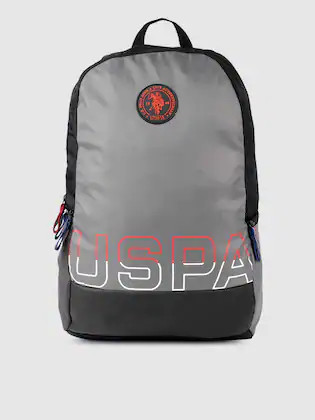
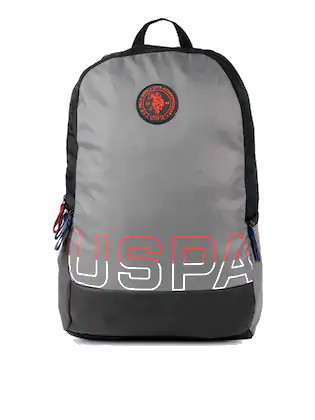
pagina producto-detalles.

diff --git a/product-details.html b/product-details.html
@@ -1,0 +1,211 @@
+<!DOCTYPE html>
+<html lang="en">
+
+<head>
+    <meta charset="UTF-8">
+    <meta name="viewport" content="width=device-width, initial-scale=1.0">
+    <link rel="stylesheet" href="css/normalize.css">
+    <link rel="stylesheet" href="css/styles.css">
+    <title>DiegoLongo | E-commerce Website</title>
+    <link href="https://fonts.googleapis.com/css2?family=Poppins:wght@300;400;500;600&display=swap" rel="stylesheet">
+    <link rel="stylesheet" href="https://use.fontawesome.com/releases/v5.14.0/css/all.css">
+</head>
+
+<body>
+
+    <div class="container">
+        <div class="navbar">
+            <div class="logo">
+                <img src="images/logo.png" alt="logo" width="125px">
+            </div>
+            <nav>
+                <ul id="MenuItems">
+                    <li><a href="">Inicio</a></li>
+                    <li><a href="products.html">Productos</a></li>
+                    <li><a href="">Nosotros</a></li>
+                    <li><a href="">Contacto</a></li>
+                    <li><a href="">Cuenta</a></li>
+                </ul>
+            </nav>
+            <img src="images/bolso.svg" alt="bolso" width="30px" height="30px">
+            <img src="images/menu.png" alt="barra" class="menu-icon" onclick="menutoggle()">
+        </div>
+    </div>
+
+    <div class="small-container single-product">
+        <div class="row">
+            <div class="col-2">
+                <img src="images/mochila.jpg" alt="" width="100%" id="ProductImg">
+                <div class="small-img-row">
+                    <div class="small-img-col">
+                        <img src="images/mochila.jpg" alt="" width="100%" class="small-img">
+                    </div>
+                    <div class="small-img-col">
+                        <img src="images/mochila2.jpg" alt="" width="100%" class="small-img">
+                    </div>
+                    <div class="small-img-col">
+                        <img src="images/mochila3.jpg" alt="" width="100%" class="small-img">
+                    </div>
+                    <div class="small-img-col">
+                        <img src="images/mochila4.jpg" alt="" width="100%" class="small-img">
+                    </div>
+                </div>
+            </div>
+            <div class="col-2">
+                <p>Inicio / Mochila</p>
+                <h1>Mochila USPA por Nike</h1>
+                <h4>Rs.1233</h4>
+                <select>
+                    <option selected disable>-- Seleccione una medida --</option>
+                    <option>XXL</option>
+                    <option>XL</option>
+                    <option>L</option>
+                    <option>M</option>
+                    <option>S</option>
+                </select>
+                <input type="number" min="0" value="1">
+                <a href="#" class="btn">Agregar al Carrito</a>
+                <h3>Detalles del producto <i class="fa fa-indent"></i></h3>
+                <br>
+                <p>Lorem ipsum dolor sit, amet consectetur adipisicing elit. Itaque, blanditiis distinctio tenetur
+                    corrupti inventore repellendus repellat commodi.</p>
+            </div>
+        </div>
+    </div>
+
+    <div class="small-container">
+        <div class="row row-2">
+            <h2>Productos Relacionados</h2>
+            <p>Mirar más</p>
+        </div>
+    </div>
+
+    <div class="small-container">
+        <div class="row">
+            <div class="col-4">
+                <img src="images/card1.jpg" alt=" Gorras">
+                <h4>Gorras Polo</h4>
+                <div class="rating">
+                    <i class="fas fa-star"></i>
+                    <i class="fas fa-star"></i>
+                    <i class="fas fa-star"></i>
+                    <i class="fas fa-star-half-alt"></i>
+                    <i class="far fa-star"></i>
+                </div>
+                <p>Rs.1232</p>
+            </div>
+            <div class="col-4">
+                <img src="images/card2.jpg" alt="Zapatillas">
+                <h4>Zapatillas</h4>
+                <div class="rating">
+                    <i class="fas fa-star"></i>
+                    <i class="fas fa-star"></i>
+                    <i class="fas fa-star"></i>
+                    <i class="fas fa-star"></i>
+                    <i class="fas fa-star-half-alt"></i>
+                </div>
+                <p>Rs.3692</p>
+            </div>
+            <div class="col-4">
+                <img src="images/card3.jpg" alt="Conjunto de Ropa">
+                <h4>Conjunto de Ropa</h4>
+                <div class="rating">
+                    <i class="fas fa-star"></i>
+                    <i class="fas fa-star"></i>
+                    <i class="fas fa-star"></i>
+                    <i class="fas fa-star"></i>
+                    <i class="far fa-star"></i>
+                </div>
+                <p>Rs.2356</p>
+            </div>
+            <div class="col-4">
+                <img src="images/card4.jpg" alt="Conjunto Veraniego">
+                <h4>Conjunto Veraniego</h4>
+                <div class="rating">
+                    <i class="fas fa-star"></i>
+                    <i class="fas fa-star"></i>
+                    <i class="fas fa-star"></i>
+                    <i class="fas fa-star"></i>
+                    <i class="far fa-star"></i>
+                </div>
+                <p>Rs.1258</p>
+            </div>
+        </div>
+    </div>
+
+    <div class="footer">
+        <div class="container">
+            <div class="row">
+                <div class="footer-col-1">
+                    <h3>Descarga nuestra App</h3>
+                    <p>Descarga nuestra App por Android y por dispositivos móviles ios.</p>
+                    <div class="app-logo">
+                        <img src="/images/google-play.png" alt="">
+                        <img src="images/apple-store.png" alt="">
+                    </div>
+                </div>
+                <div class="footer-col-2">
+                    <img src="images/logo.png" alt="logo">
+                    <p>Nuestro propósito es dar los productos mejores calificados al cliente, traerlos de vuelta y
+                        hacerlos felices. </p>
+                </div>
+                <div class="footer-col-3">
+                    <h3>Enlaces útiles</h3>
+                    <ul>
+                        <li>Cupones</li>
+                        <li>Blog</li>
+                        <li>Retornar a la policia</li>
+                        <li>Unirse a la afiliación</li>
+                    </ul>
+                </div>
+                <div class="footer-col-4">
+                    <h3>Síguenos</h3>
+                    <ul>
+                        <li>Facebook</li>
+                        <li>Twitter</li>
+                        <li>Instagram</li>
+                        <li>Youtube</li>
+                    </ul>
+                </div>
+            </div>
+            <hr>
+            <p class="copyright">Copyright &copy; 2020 - www.maxstore.com</p>
+        </div>
+    </div>
+
+
+    <script>
+        let MenuItems = document.getElementById("MenuItems");
+        MenuItems.style.maxHeight = "0px";
+
+        function menutoggle() {
+            if (MenuItems.style.maxHeight == "0px") {
+                MenuItems.style.maxHeight = "200px";
+            } else {
+                MenuItems.style.maxHeight = "0px";
+            }
+        }
+    </script>
+
+    <script>
+        var ProductImg = document.getElementById("ProductImg");
+        var SmallImg = document.getElementsByClassName("small-img");
+
+        SmallImg[0].onclick = function () {
+            ProductImg.src = SmallImg[0].src;
+            console.log(ProductImg.src);
+        }
+        SmallImg[1].onclick = function () {
+            ProductImg.src = SmallImg[1].src;
+        }
+        SmallImg[2].onclick = function () {
+            ProductImg.src = SmallImg[2].src;
+        }
+        SmallImg[3].onclick = function () {
+            ProductImg.src = SmallImg[3].src;
+        }
+    </script>
+
+</body>
+
+</html>

diff --git a/css/styles.css b/css/styles.css
@@ -396,3 +396,58 @@ select:focus {
     background: #f1607d;
     color: whitesmoke;
 }
+
+/*******DETALLE PRODUCTO *****/
+.single-product {
+    margin-top: 80px;
+}
+
+.single-product .col-2 img {
+    padding: 0;
+}
+
+.single-product .col-2 {
+    padding: 20px;
+}
+
+.single-product h4 {
+    margin: 20px 0;
+    font-size: 22px;
+    font-weight: bold;
+}
+
+.single-product select {
+    display: block;
+    padding: 10px;
+    margin-top: 20px;
+}
+
+.single-product input {
+    width: 50px;
+    height: 40px;
+    padding-left: 10px;
+    font-size: 20px;
+    margin-right: 10px;
+    border: 1px solid coral;
+}
+
+input:focus {
+    outline: none;
+}
+
+.single-product .fa {
+    color: #f1607d;
+    margin-left: 10px;
+}
+
+.small-img-row {
+    display: flex;
+    justify-content: space-between;
+}
+
+.small-img-col {
+    flex-basis: 24%;
+    cursor: pointer;
+}
+
+/*****DETALLE PRODUCTOS - RESPONSIVE***/
